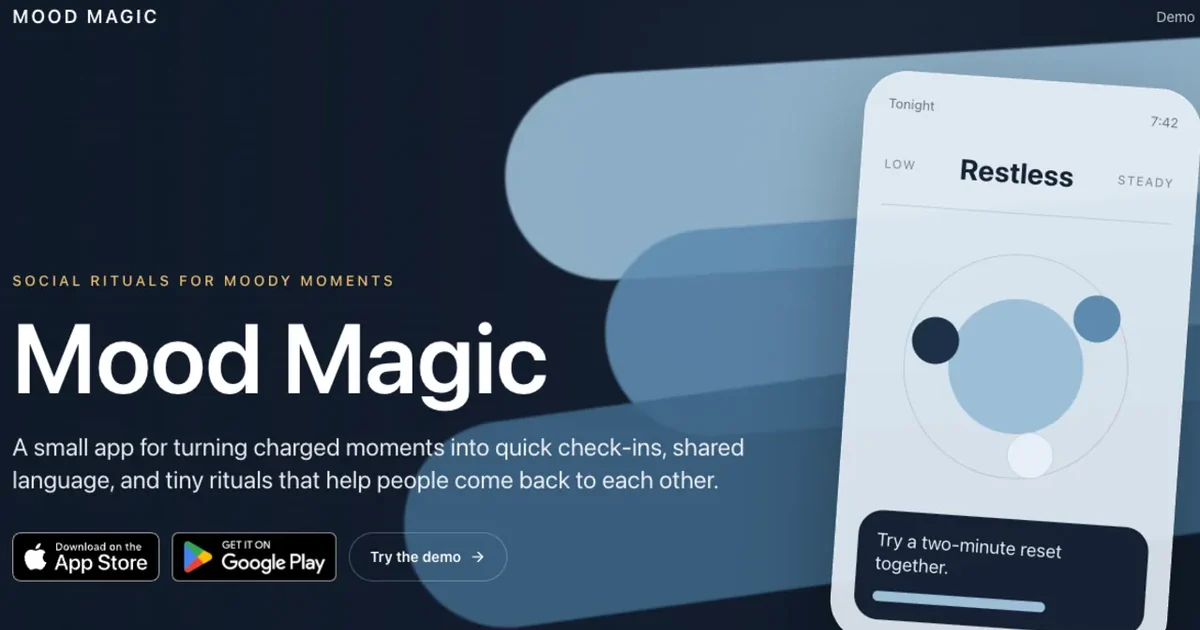
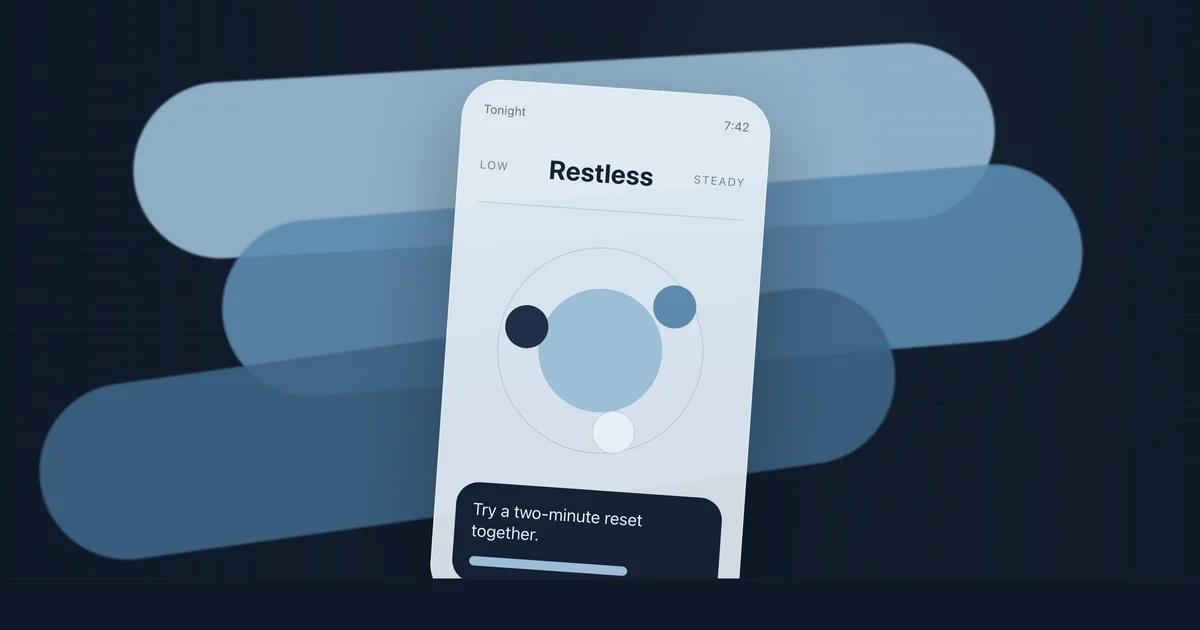
Give every project a wordmark card and a text-free cover, from Rico's picks
Adds wordmark cards for Interactive 3D Demos, name-check, Streaks, Mood Magic
and Hydroxyl, and replaces their text-heavy covers with text-free ones.
Mesozoic Protocol moves to the forest Steam capsule art, Tiao keeps only its
wordmark, hatchkit gets its egg mark and a larger lockup, and Fractal Garden
keeps the collage with its subtitle in place of the URL.

diff --git a/src/lib/projects.ts b/src/lib/projects.ts
@@ -81,11 +81,11 @@ export const PROJECTS: Project[] = [
     section: "Games",
     cover: screenshot(
       "mesozoic-protocol",
-      "Mesozoic Protocol art: a mech and turrets holding off dinosaurs on a burning shore",
+      "A velociraptor in a sunlit forest beside an orange turret",
     ),
     wordmarkCover: wordmark(
       "mesozoic-protocol",
-      "Mesozoic Protocol logo over art of a mech and turrets holding off dinosaurs",
+      "Mesozoic Protocol logo beside a velociraptor in a sunlit forest and an orange turret",
     ),
   },
   {
@@ -99,7 +99,7 @@ export const PROJECTS: Project[] = [
     cover: screenshot("tiao", "Tiao board at an angle with black and white stones"),
     wordmarkCover: wordmark(
       "tiao",
-      "Tiao logo and the line Place a stone, or jump one, beside a board with stones",
+      "Tiao logo beside a board at an angle with black and white stones",
     ),
     featured: true,
   },
@@ -217,7 +217,11 @@ export const PROJECTS: Project[] = [
     section: "Art & 3D",
     cover: screenshot(
       "interactive-3d-demos",
-      "Colourful concentric shader pattern from the 3D playground",
+      "Six 3D demos: a plasma ball, a shader pattern, a glowing sword, a snow forest, a lightning strike and an animated soldier",
+    ),
+    wordmarkCover: wordmark(
+      "interactive-3d-demos",
+      "Interactive 3D Demos title over a plasma ball, a shader pattern, a glowing sword, a snow forest, lightning and a soldier",
     ),
   },
   {
@@ -257,7 +261,7 @@ export const PROJECTS: Project[] = [
     ),
     wordmarkCover: wordmark(
       "fractal-garden",
-      "Fractal Garden title above the Mandelbrot set, a Julia set and the Burning Ship",
+      "Fractal Garden title and the line An Exhibition Of Mathematical Beauty over six fractals",
     ),
     featured: true,
   },
@@ -290,7 +294,14 @@ export const PROJECTS: Project[] = [
     link: "https://names.trebeljahr.com",
     section: "Dev tools",
     unlisted: true,
-    cover: screenshot("name-check", "name-check landing page with a search box for a product name"),
+    cover: screenshot(
+      "name-check",
+      "name-check results for one name: trademarks, domains and social handles marked available or taken",
+    ),
+    wordmarkCover: wordmark(
+      "name-check",
+      "name-check logo, the headline Don't ship a name you'll have to rebrand, and a search box",
+    ),
   },
   {
     slug: "hatchkit",
@@ -305,7 +316,7 @@ export const PROJECTS: Project[] = [
     ),
     wordmarkCover: wordmark(
       "hatchkit",
-      "hatchkit logo and the line Automates the drudgery of starting a new project, beside the services one command sets up",
+      "hatchkit logo and the line Automates the drudgery of starting a new project, beside the nine services hatchkit create sets up",
     ),
     featured: true,
   },
@@ -358,7 +369,14 @@ export const PROJECTS: Project[] = [
     link: "https://streaks.trebeljahr.com",
     section: "Everyday apps",
     unlisted: true,
-    cover: screenshot("streaks", "Streaks landing page headed Two minutes counts"),
+    cover: screenshot(
+      "streaks",
+      "Streaks Today screen on a phone with four practices and their streak rings",
+    ),
+    wordmarkCover: wordmark(
+      "streaks",
+      "Streaks wordmark and the line Two minutes counts, beside the Today screen on a phone",
+    ),
   },
   {
     slug: "track-your-time",
@@ -389,7 +407,11 @@ export const PROJECTS: Project[] = [
     unlisted: true,
     cover: screenshot(
       "mood-magic",
-      "Mood Magic landing page next to a phone showing a Restless check-in",
+      "A phone showing a Restless mood check-in over soft blue bands",
+    ),
+    wordmarkCover: wordmark(
+      "mood-magic",
+      "Mood Magic title next to a phone showing a Restless mood check-in",
     ),
   },
   {
@@ -436,7 +458,11 @@ export const PROJECTS: Project[] = [
     unlisted: true,
     cover: screenshot(
       "chemistry-sketcher",
-      "Hydroxyl landing page with acetic acid drawn as skeletal, Lewis and formula views",
+      "Acetic acid drawn as four panels: skeletal, explicit H, Lewis and condensed formula",
+    ),
+    wordmarkCover: wordmark(
+      "chemistry-sketcher",
+      "Hydroxyl headline Draw the molecule once beside acetic acid in four views",
     ),
   },
 ];
